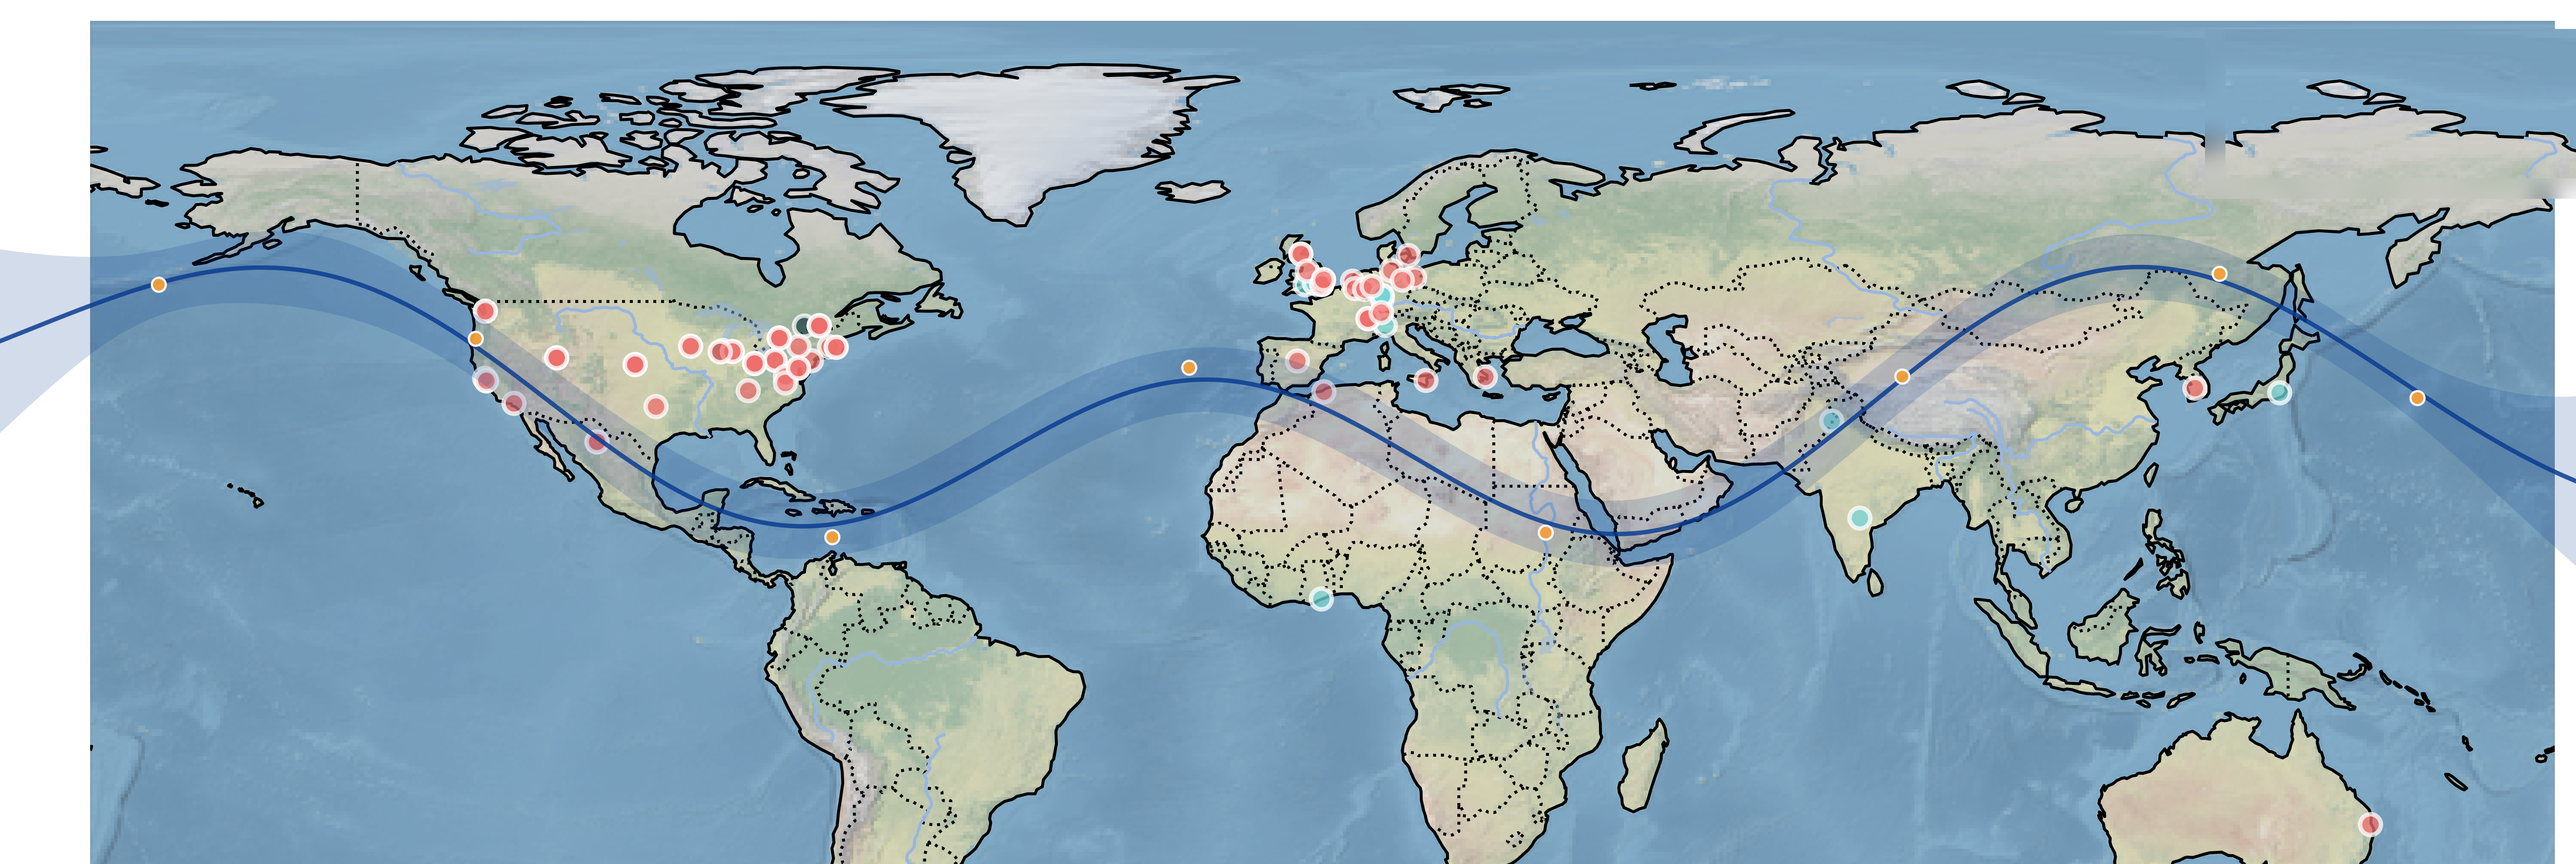
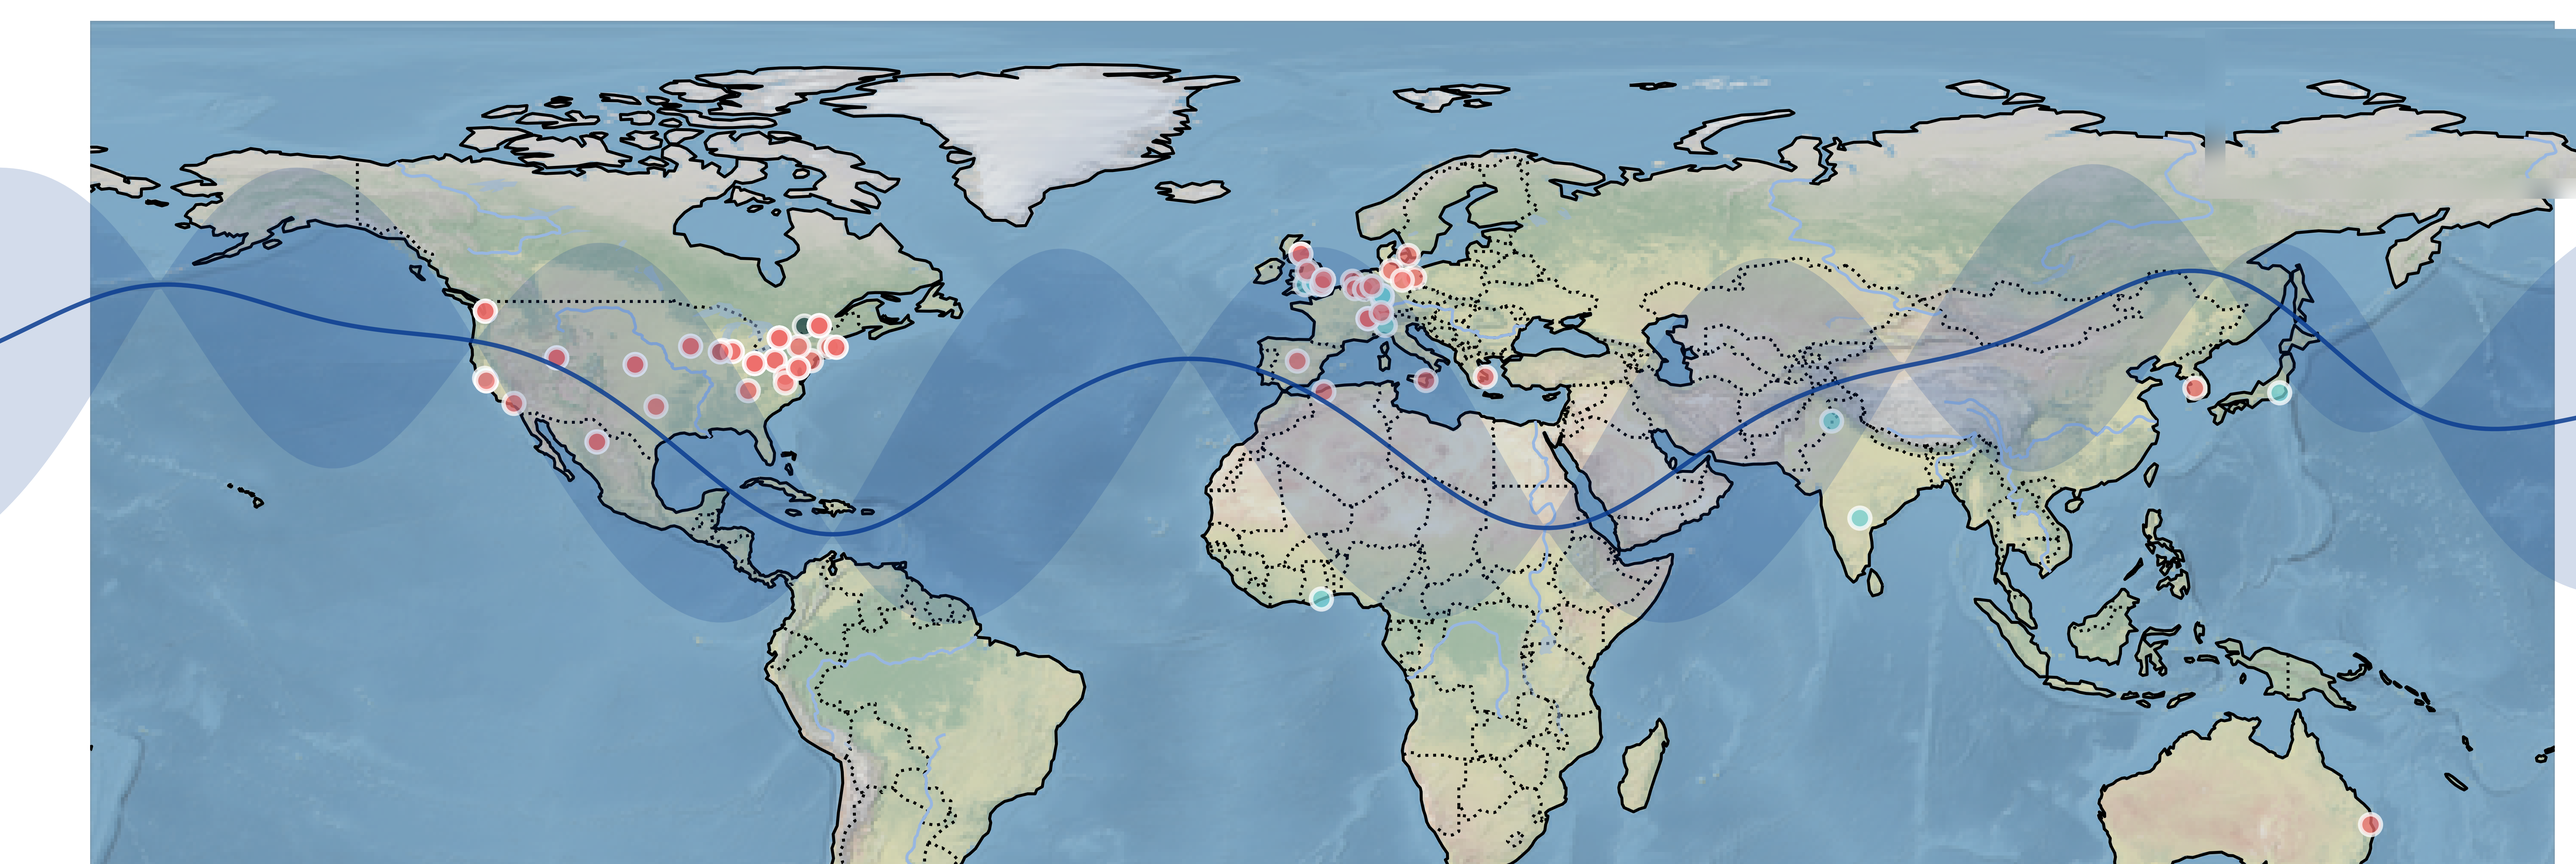
Use Ax GP surrogate, drop datapoints, note DD guideline compliance

diff --git a/python_scripts/graphical_abstract.py b/python_scripts/graphical_abstract.py
@@ -7,10 +7,18 @@ but simplifies it for use as a stand-alone visual:
 * the affiliation legend in the top-right corner is masked out,
 
 so that only the clean world map with the participant locations remains. A
-Bayesian-optimization surrogate model -- a Gaussian-process posterior with
-observed data points, the predictive mean, and a (mostly transparent)
-uncertainty band -- is then overlaid on top of the map to convey the theme of
-the hackathon: a global community advancing Bayesian optimization.
+Bayesian-optimization surrogate model -- the predictive mean and a (mostly
+transparent) uncertainty band of a Gaussian-process posterior -- is then
+overlaid on top of the map to convey the theme of the hackathon: a global
+community advancing Bayesian optimization. The surrogate is a *real* GP fit
+with the Ax Platform (`ax-platform`); the observations are treated as
+noiseless, so the band collapses at the measured points and widens away from
+them, illustrating how Bayesian optimization reasons about uncertainty.
+
+The output respects the Royal Society of Chemistry / Digital Discovery
+graphical-abstract guidelines: it is a landscape image (graphical abstracts are
+*not* required to be square; they are reproduced at up to 8 cm wide by 4 cm
+high) saved well above the 300 dpi minimum.
 
 Running the script writes ``latex/figures/graphical-abstract.png``.
 """
@@ -18,6 +26,9 @@ Running the script writes ``latex/figures/graphical-abstract.png``.
 import os
 
 import numpy as np
+import torch
+from ax.api.client import Client
+from ax.api.configs import RangeParameterConfig
 from PIL import Image, ImageFilter
 import matplotlib
 
@@ -81,46 +92,61 @@ def load_simplified_map():
     return pixels[:crop_height, :, :]
 
 
-def rbf_kernel(a, b, length_scale, variance):
-    """Squared-exponential (RBF) covariance between two sets of inputs."""
-    sq_dist = (a[:, None] - b[None, :]) ** 2
-    return variance * np.exp(-0.5 * sq_dist / length_scale**2)
-
-
-def gp_posterior(x_train, y_train, x_test, length_scale, variance, noise):
-    """Return the GP posterior mean and standard deviation at ``x_test``."""
-    k = rbf_kernel(x_train, x_train, length_scale, variance)
-    k += noise**2 * np.eye(len(x_train))
-    k_s = rbf_kernel(x_train, x_test, length_scale, variance)
-    k_ss = rbf_kernel(x_test, x_test, length_scale, variance)
-
-    k_inv = np.linalg.solve(k, np.eye(len(x_train)))
-    mean = k_s.T @ k_inv @ y_train
-    cov = k_ss - k_s.T @ k_inv @ k_s
-    std = np.sqrt(np.clip(np.diag(cov), 0.0, None))
-    return mean, std
-
-
 def build_surrogate(seed=7):
-    """Create observations and the GP posterior for the overlay."""
+    """Fit a real Gaussian-process surrogate with Ax and return its posterior.
+
+    A handful of noiseless observations of a smooth latent function are
+    attached to an :class:`ax.api.client.Client`. Ax fits a Gaussian-process
+    surrogate (via BoTorch) which is then queried on a dense grid. Because the
+    observations are reported with zero noise, the predictive standard
+    deviation collapses at the measured points and grows away from them.
+
+    Returns the test grid, posterior mean, and posterior standard deviation.
+    """
+    np.random.seed(seed)
+    torch.manual_seed(seed)
     rng = np.random.default_rng(seed)
 
     def latent(x):
         return np.sin(2.6 * x) + 0.55 * np.sin(5.5 * x + 0.8)
 
+    lower, upper = 0.0, 6.5
     x_train = np.array([0.4, 1.2, 2.1, 3.0, 3.9, 4.8, 5.6, 6.1])
-    y_train = latent(x_train) + rng.normal(scale=0.12, size=x_train.shape)
-    x_test = np.linspace(0.0, 6.5, 400)
+    y_train = latent(x_train) + rng.normal(scale=0.05, size=x_train.shape)
 
-    mean, std = gp_posterior(
-        x_train,
-        y_train,
-        x_test,
-        length_scale=0.9,
-        variance=1.0,
-        noise=0.12,
+    client = Client()
+    client.configure_experiment(
+        parameters=[
+            RangeParameterConfig(
+                name="x", bounds=(lower, upper), parameter_type="float"
+            )
+        ]
     )
-    return x_train, y_train, x_test, mean, std
+    client.configure_optimization(objective="y")
+    # Move past the random initialization phase immediately so the predictive
+    # Gaussian-process node is used, and reuse our attached observations.
+    client.configure_generation_strategy(
+        initialization_budget=2,
+        initialize_with_center=False,
+        initialization_random_seed=seed,
+    )
+
+    for xi, yi in zip(x_train, y_train):
+        trial_index = client.attach_trial(parameters={"x": float(xi)})
+        # A standard error of 0 marks the observation as noiseless.
+        client.complete_trial(
+            trial_index=trial_index, raw_data={"y": (float(yi), 0.0)}
+        )
+
+    # Generating a trial fits the Gaussian-process surrogate that ``predict``
+    # subsequently queries.
+    client.get_next_trials(max_trials=1)
+
+    x_test = np.linspace(lower, upper, 400)
+    predictions = client.predict(points=[{"x": float(x)} for x in x_test])
+    mean = np.array([p["y"][0] for p in predictions])
+    std = np.array([p["y"][1] for p in predictions])
+    return x_test, mean, std
 
 
 def main():
@@ -140,7 +166,7 @@ def main():
     overlay.set_ylim(0, 1)
     overlay.patch.set_alpha(0)
 
-    x_train, y_train, x_test, mean, std = build_surrogate()
+    x_test, mean, std = build_surrogate()
 
     # Map model coordinates into the [0, 1] overlay frame. The band is centred
     # vertically and uses a moderate amplitude so it stays legible.
@@ -154,7 +180,6 @@ def main():
         return band_center + band_amplitude * y
 
     accent = "#0b3d91"  # deep blue, harmonises with the ocean
-    point_color = "#f4a13a"  # warm amber so the observations stand out
 
     overlay.fill_between(
         to_x(x_test),
@@ -172,16 +197,6 @@ def main():
         alpha=0.85,
         linewidth=3.0,
         zorder=3,
-    )
-    overlay.scatter(
-        to_x(x_train),
-        to_y(y_train),
-        s=90,
-        color=point_color,
-        edgecolors="white",
-        linewidths=1.5,
-        alpha=0.95,
-        zorder=4,
     )
 
     fig.savefig(OUTPUT, dpi=300)
